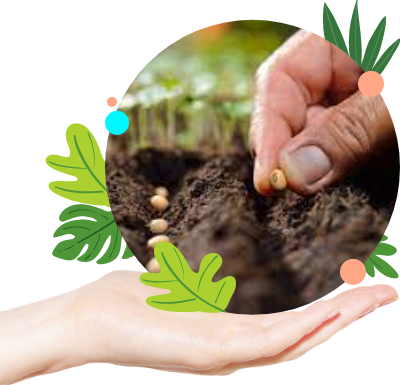
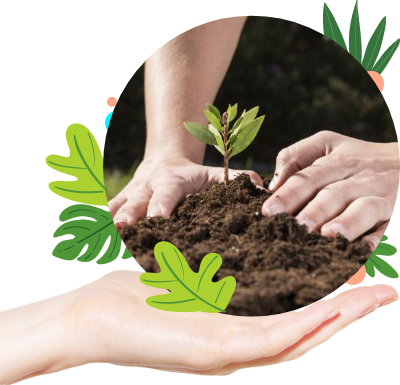
Ajustes de imágenes pendientes

diff --git a/src/views/Tema4.vue b/src/views/Tema4.vue
@@ -129,7 +129,7 @@
               p Maduración y abscisión de los frutos. Senescencia de las hojas y las flores.
           .col-11.col-lg-5.mt-0.mt-md-4
             figure
-              img(src='@/assets/curso/tema4/img11.png', alt='Texto que describa la imagen')
+              img(src='@/assets/curso/tema4/img15.png', alt='Texto que describa la imagen')
     
     separador
 
